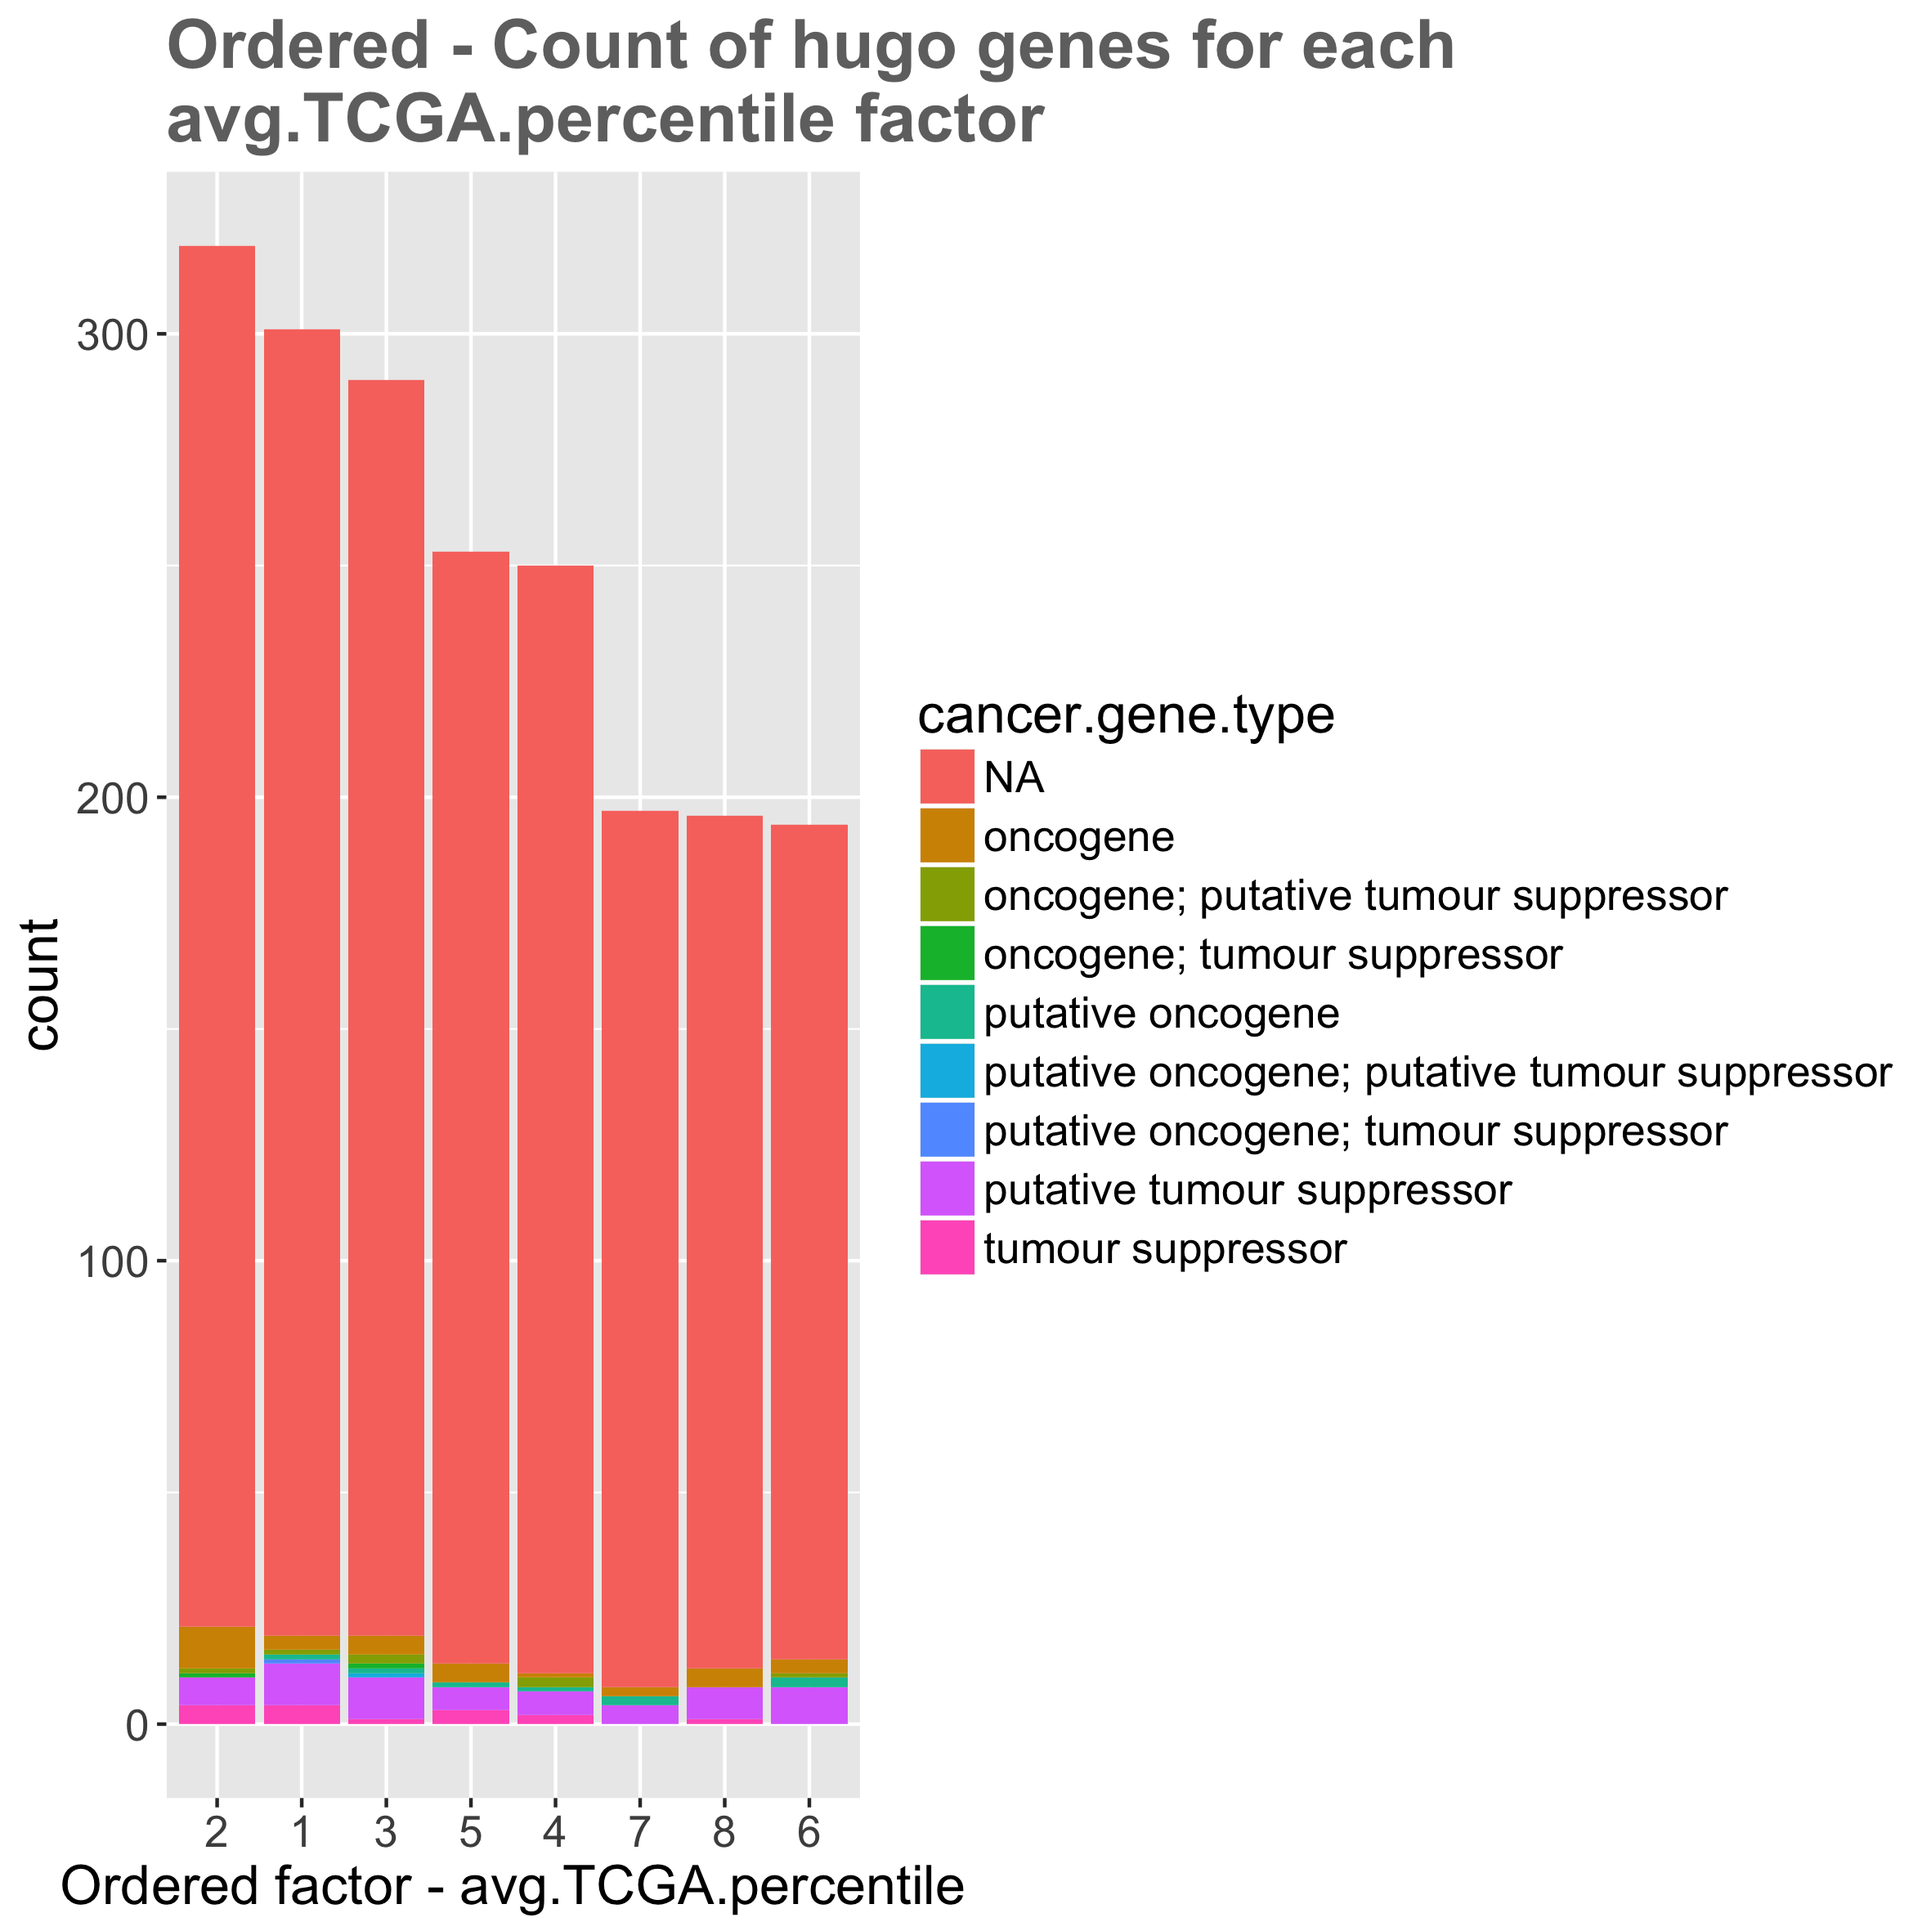
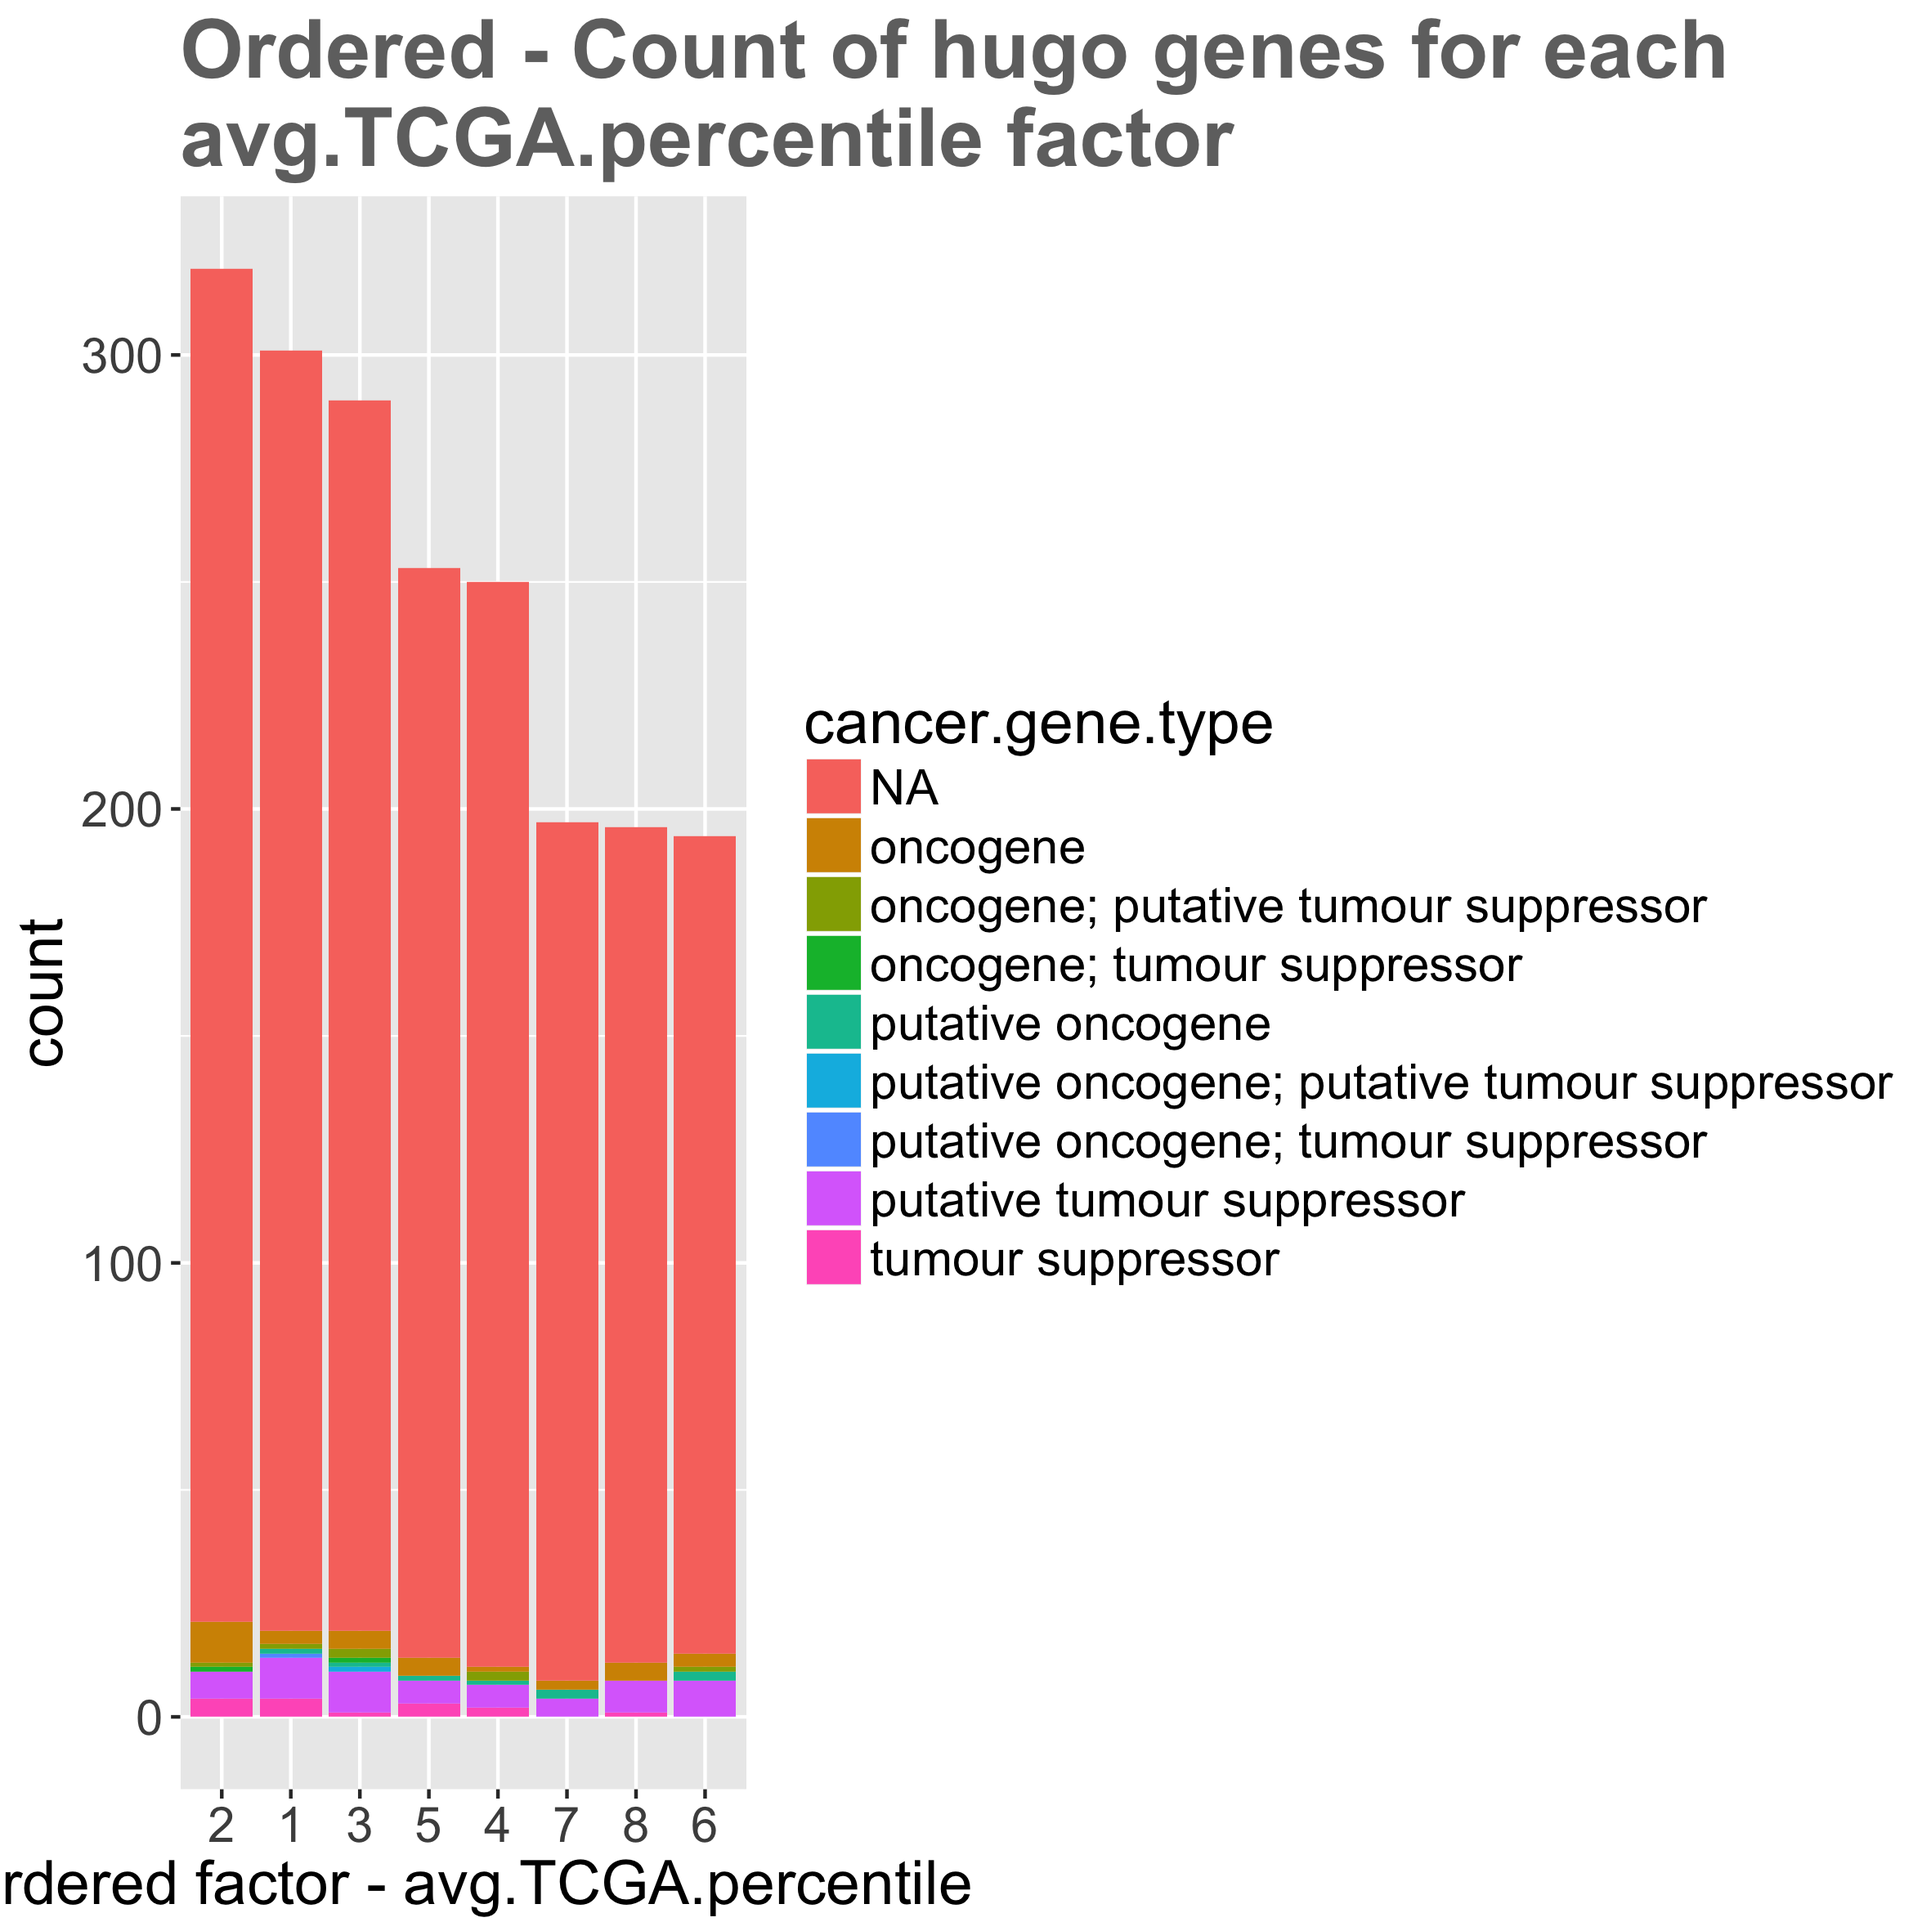
formating plots

Changed region(s): [[0.0, 0.0, 0.989, 1.0], [0.0, 0.4636, 0.0309, 0.5563]]

diff --git a/stat545-hw5-thibodeau-mylinh/stat545-hw05-thibodeau-mylinh.md b/stat545-hw5-thibodeau-mylinh/stat545-hw05-thibodeau-mylinh.md
@@ -629,8 +629,8 @@ p1 <- d2 %>%
   labs(x="hugo genes")
 p1 + geom_point(aes(colour=cancer.gene.type), size = 2, alpha=0.9, shape=21) + 
   theme(
-    plot.title= element_text(color = "grey44", size=20, face="bold"),
-    text = element_text(size=16), 
+    plot.title= element_text(color = "grey44", size=24, face="bold"),
+    text = element_text(size=18), 
     #axis.title.x=element_blank(), 
     axis.text.x = element_blank(), 
     axis.ticks.x=element_blank())
@@ -657,8 +657,8 @@ p1 <- d2 %>%
   labs(x="hugo genes")
 p1 + geom_point(aes(colour=cancer.gene.type), size = 2, alpha=0.9, shape=21) + 
   theme(
-    plot.title= element_text(color = "grey44", size=20, face="bold"),
-    text = element_text(size=16), 
+    plot.title= element_text(color = "grey44", size=24, face="bold"),
+    text = element_text(size=18), 
     #axis.title.x=element_blank(), 
     axis.text.x = element_blank(), 
     axis.ticks.x=element_blank())
@@ -701,9 +701,9 @@ d3.mean.percentile.by.type  %>% kable(format = "markdown", align="c")
 p3 <- d3.mean.percentile.by.type %>%
   ggplot(aes(x=cancer.gene.type, y = mean.percentile.by.type)) +
   ggtitle("Mean percentile for each cancer.gene.type factor")
-p3 + geom_point() + theme(
-  plot.title= element_text(color = "grey44", size=20, face="bold"),
-  text = element_text(size=16), axis.text.x = element_text(angle=45, hjust=1))
+p3 + geom_point(aes(colour=cancer.gene.type), size=6) + theme(
+  plot.title= element_text(color = "grey44", size=24, face="bold"),
+  text = element_text(size=18), axis.text.x = element_text(angle=45, hjust=1))
 ```
 
 ![](stat545-hw05-thibodeau-mylinh_files/figure-markdown_github-ascii_identifiers/unnamed-chunk-12-1.png)
@@ -713,9 +713,9 @@ p3 + geom_point() + theme(
 p3 <- d3.mean.percentile.by.type %>%
   ggplot(aes(x=fct_reorder(cancer.gene.type, mean.percentile.by.type), y = mean.percentile.by.type)) +
   ggtitle("Ordered - Mean percentile for each cancer.gene.type factor")
-p3 + geom_point() + theme(
-  plot.title= element_text(color = "grey44", size=18, face="bold"),
-  text = element_text(size=16), axis.text.x = element_text(angle=45, hjust=1))
+p3 + geom_point(aes(colour=cancer.gene.type), size=6) + theme(
+  plot.title= element_text(color = "grey44", size=24, face="bold"),
+  text = element_text(size=18), axis.text.x = element_text(angle=45, hjust=1))
 ```
 
 ![](stat545-hw05-thibodeau-mylinh_files/figure-markdown_github-ascii_identifiers/unnamed-chunk-12-2.png)
@@ -814,8 +814,8 @@ p4 <- d2 %>%
   labs(x="avg.TCGA.percentile")
 p4 + geom_bar(aes(fill=cancer.gene.type)) + 
   theme(
-  plot.title= element_text(color = "grey44", size=20, face="bold"),
-  text = element_text(size=16))
+  plot.title= element_text(color = "grey44", size=24, face="bold"),
+  text = element_text(size=18))
 ```
 
 ![](stat545-hw05-thibodeau-mylinh_files/figure-markdown_github-ascii_identifiers/unnamed-chunk-15-1.png)
@@ -1184,8 +1184,8 @@ p4 <- d2 %>%
   labs(x="avg.TCGA.percentile")
 p4 + geom_bar(aes(fill=cancer.gene.type)) + 
   theme(
-  plot.title= element_text(color = "grey44", size=20, face="bold"),
-  text = element_text(size=16))
+  plot.title= element_text(color = "grey44", size=24, face="bold"),
+  text = element_text(size=18))
 ```
 
 ![](stat545-hw05-thibodeau-mylinh_files/figure-markdown_github-ascii_identifiers/unnamed-chunk-24-1.png)
@@ -1199,8 +1199,8 @@ p4 <- d2 %>%
   labs(x="Ordered factor - avg.TCGA.percentile")
 p4 + geom_bar(aes(fill=cancer.gene.type)) +
   theme(
-  plot.title= element_text(color = "grey44", size=20, face="bold"),
-  text = element_text(size=16))
+  plot.title= element_text(color = "grey44", size=24, face="bold"),
+  text = element_text(size=18))
 ```
 
 ![](stat545-hw05-thibodeau-mylinh_files/figure-markdown_github-ascii_identifiers/unnamed-chunk-24-2.png)
@@ -1220,8 +1220,8 @@ p4_unordered <- d2 %>%
   labs(x="avg.TCGA.percentile")
 p4_unordered + geom_bar(aes(fill=cancer.gene.type)) + 
   theme(
-  plot.title= element_text(color = "grey44", size=20, face="bold"),
-  text = element_text(size=16))
+  plot.title= element_text(color = "grey44", size=24, face="bold"),
+  text = element_text(size=18))
 ```
 
 ![](stat545-hw05-thibodeau-mylinh_files/figure-markdown_github-ascii_identifiers/unnamed-chunk-25-1.png)
@@ -1235,8 +1235,8 @@ p4 <- d2 %>%
   labs(x="Ordered factor - avg.TCGA.percentile")
 p4 + geom_bar(aes(fill=cancer.gene.type)) +
   theme(
-  plot.title= element_text(color = "grey44", size=20, face="bold"),
-  text = element_text(size=16))
+  plot.title= element_text(color = "grey44", size=24, face="bold"),
+  text = element_text(size=18))
 ```
 
 ![](stat545-hw05-thibodeau-mylinh_files/figure-markdown_github-ascii_identifiers/unnamed-chunk-25-2.png)
